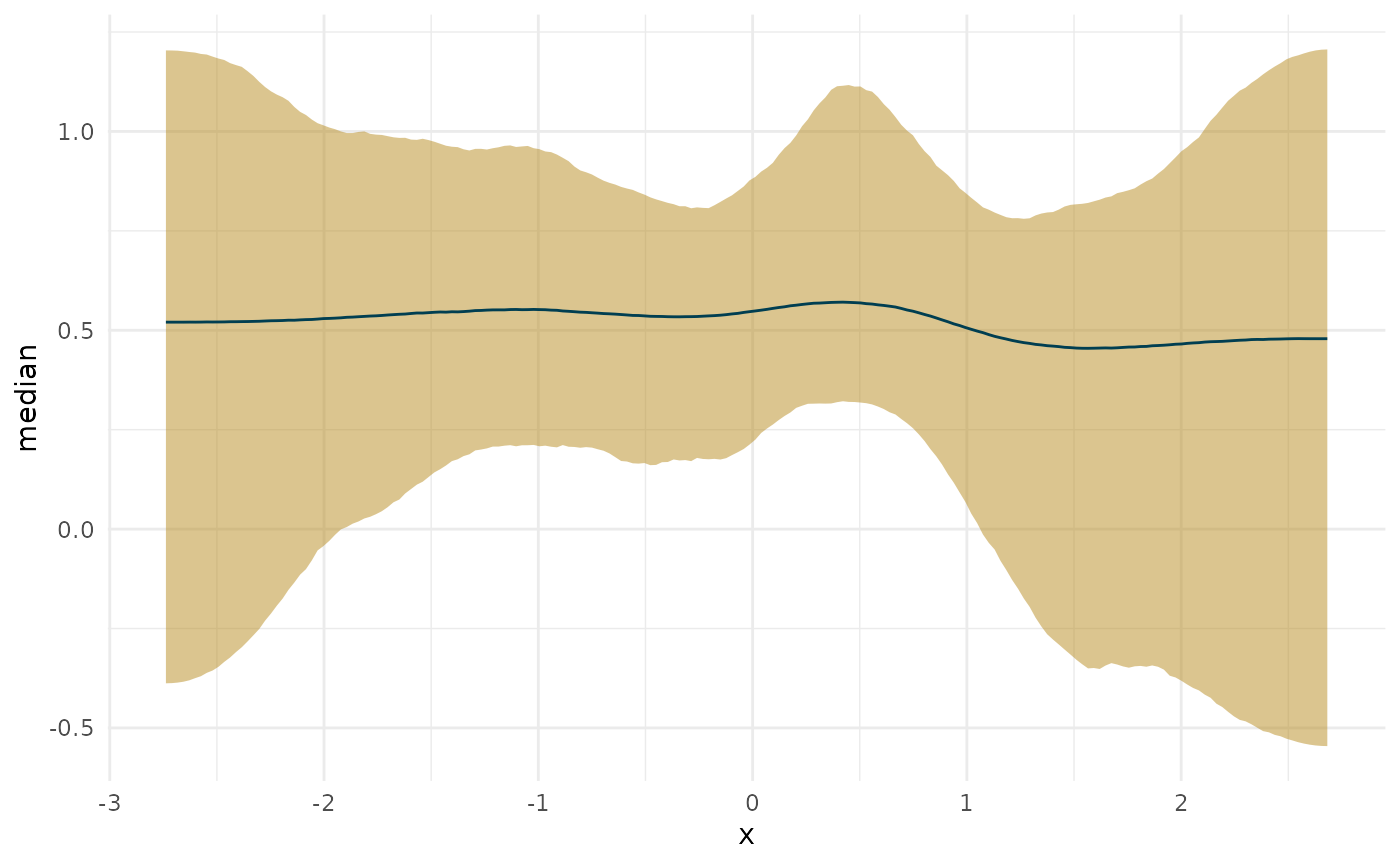
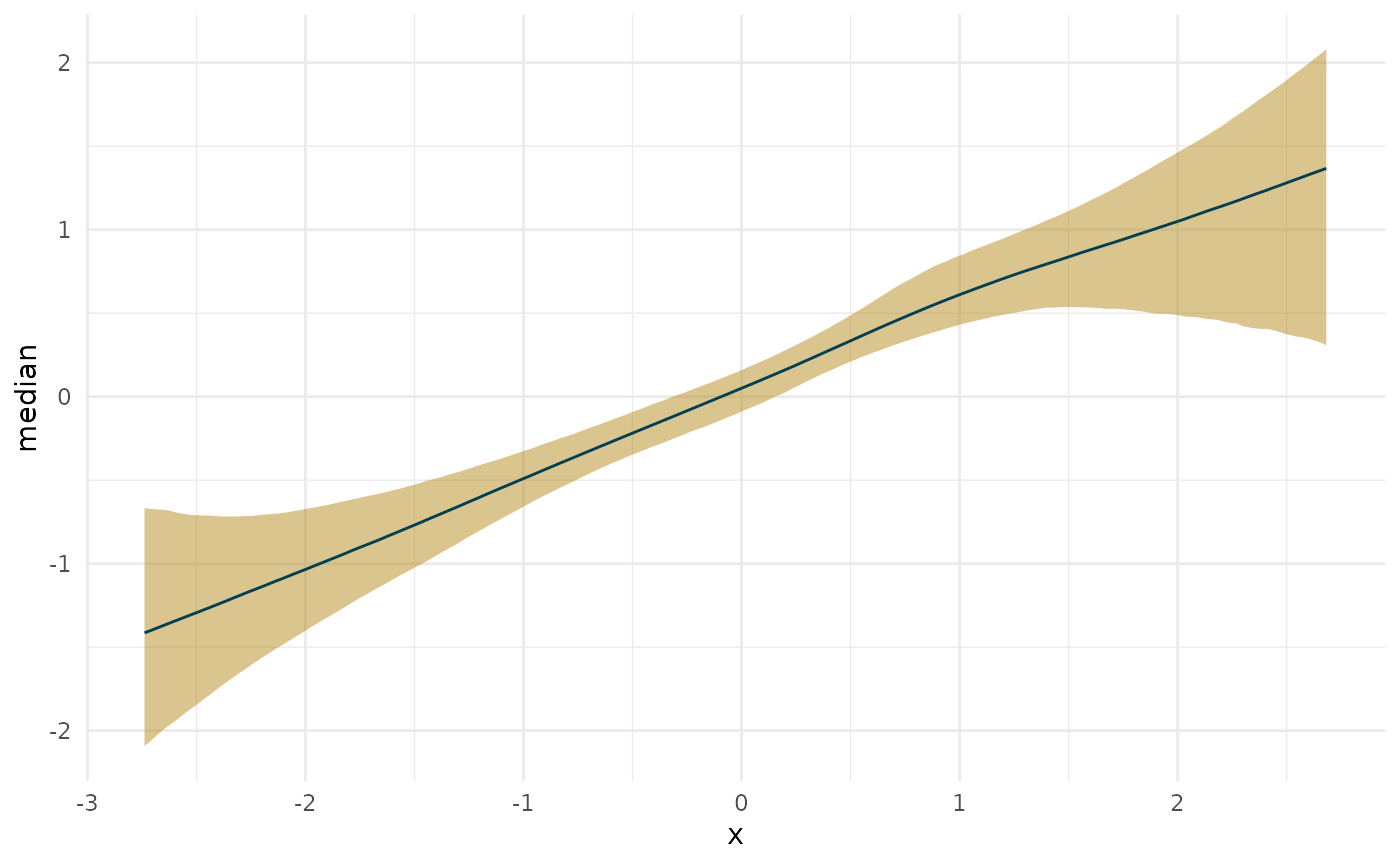
docs and bug fix

diff --git a/docs/articles/finding-plateaus.html b/docs/articles/finding-plateaus.html
@@ -158,13 +158,13 @@
 <span class="va">eps</span> <span class="op">=</span> <span class="fl">1e-07</span>
 <span class="va">res</span> <span class="op">=</span> <span class="fl">200</span>
 <span class="va">fit</span> <span class="op">&lt;-</span> <span class="fu"><a href="https://rdrr.io/pkg/mgcv/man/gam.html">gam</a></span><span class="op">(</span><span class="va">y</span><span class="op">~</span><span class="fu"><a href="https://rdrr.io/pkg/mgcv/man/s.html">s</a></span><span class="op">(</span><span class="va">x2</span><span class="op">)</span>,data<span class="op">=</span><span class="va">d</span>, method <span class="op">=</span> <span class="st">'REML'</span><span class="op">)</span>
-<span class="va">deriv_su</span> <span class="op">&lt;-</span> <span class="fu">gratia</span><span class="fu">::</span><span class="fu"><a href="https://gavinsimpson.github.io/gratia//reference/derivatives.html">derivatives</a></span><span class="op">(</span><span class="va">fit</span>, term <span class="op">=</span> <span class="st">'x2'</span>, n <span class="op">=</span> <span class="va">res</span>, eps <span class="op">=</span> <span class="va">eps</span>, level <span class="op">=</span> <span class="fl">.95</span>, 
+<span class="va">deriv_su</span> <span class="op">&lt;-</span> <span class="fu">gratia</span><span class="fu">::</span><span class="fu"><a href="https://gavinsimpson.github.io/gratia/reference/derivatives.html">derivatives</a></span><span class="op">(</span><span class="va">fit</span>, term <span class="op">=</span> <span class="st">'x2'</span>, n <span class="op">=</span> <span class="va">res</span>, eps <span class="op">=</span> <span class="va">eps</span>, level <span class="op">=</span> <span class="fl">.95</span>, 
                                 interval <span class="op">=</span> <span class="st">'simultaneous'</span>, unconditional <span class="op">=</span> <span class="cn">TRUE</span>, n_sim <span class="op">=</span> <span class="fl">10000</span><span class="op">)</span>
-<span class="va">deriv_sc</span> <span class="op">&lt;-</span> <span class="fu">gratia</span><span class="fu">::</span><span class="fu"><a href="https://gavinsimpson.github.io/gratia//reference/derivatives.html">derivatives</a></span><span class="op">(</span><span class="va">fit</span>, term <span class="op">=</span> <span class="st">'x2'</span>, n <span class="op">=</span> <span class="va">res</span>, eps <span class="op">=</span> <span class="va">eps</span>, level <span class="op">=</span> <span class="fl">.95</span>, 
+<span class="va">deriv_sc</span> <span class="op">&lt;-</span> <span class="fu">gratia</span><span class="fu">::</span><span class="fu"><a href="https://gavinsimpson.github.io/gratia/reference/derivatives.html">derivatives</a></span><span class="op">(</span><span class="va">fit</span>, term <span class="op">=</span> <span class="st">'x2'</span>, n <span class="op">=</span> <span class="va">res</span>, eps <span class="op">=</span> <span class="va">eps</span>, level <span class="op">=</span> <span class="fl">.95</span>, 
                                 interval <span class="op">=</span> <span class="st">'simultaneous'</span>, unconditional <span class="op">=</span> <span class="cn">FALSE</span>, n_sim <span class="op">=</span> <span class="fl">10000</span><span class="op">)</span>
-<span class="va">deriv_cu</span> <span class="op">&lt;-</span> <span class="fu">gratia</span><span class="fu">::</span><span class="fu"><a href="https://gavinsimpson.github.io/gratia//reference/derivatives.html">derivatives</a></span><span class="op">(</span><span class="va">fit</span>, term <span class="op">=</span> <span class="st">'x2'</span>, n <span class="op">=</span> <span class="va">res</span>, eps <span class="op">=</span> <span class="va">eps</span>, level <span class="op">=</span> <span class="fl">.95</span>, 
+<span class="va">deriv_cu</span> <span class="op">&lt;-</span> <span class="fu">gratia</span><span class="fu">::</span><span class="fu"><a href="https://gavinsimpson.github.io/gratia/reference/derivatives.html">derivatives</a></span><span class="op">(</span><span class="va">fit</span>, term <span class="op">=</span> <span class="st">'x2'</span>, n <span class="op">=</span> <span class="va">res</span>, eps <span class="op">=</span> <span class="va">eps</span>, level <span class="op">=</span> <span class="fl">.95</span>, 
                                 interval <span class="op">=</span> <span class="st">'confidence'</span>, unconditional <span class="op">=</span> <span class="cn">TRUE</span><span class="op">)</span>
-<span class="va">deriv_cc</span> <span class="op">&lt;-</span> <span class="fu">gratia</span><span class="fu">::</span><span class="fu"><a href="https://gavinsimpson.github.io/gratia//reference/derivatives.html">derivatives</a></span><span class="op">(</span><span class="va">fit</span>, term <span class="op">=</span> <span class="st">'x2'</span>, n <span class="op">=</span> <span class="va">res</span>, eps <span class="op">=</span> <span class="va">eps</span>, level <span class="op">=</span> <span class="fl">.95</span>, 
+<span class="va">deriv_cc</span> <span class="op">&lt;-</span> <span class="fu">gratia</span><span class="fu">::</span><span class="fu"><a href="https://gavinsimpson.github.io/gratia/reference/derivatives.html">derivatives</a></span><span class="op">(</span><span class="va">fit</span>, term <span class="op">=</span> <span class="st">'x2'</span>, n <span class="op">=</span> <span class="va">res</span>, eps <span class="op">=</span> <span class="va">eps</span>, level <span class="op">=</span> <span class="fl">.95</span>, 
                                 interval <span class="op">=</span> <span class="st">'confidence'</span>, unconditional <span class="op">=</span> <span class="cn">FALSE</span><span class="op">)</span></pre></div>
 <div id="sources-of-uncertainty" class="section level2">
 <h2 class="hasAnchor">
@@ -198,7 +198,7 @@
 <div class="sourceCode" id="cb7"><pre class="downlit">
 <span class="kw"><a href="https://rdrr.io/r/base/library.html">library</a></span><span class="op">(</span><span class="va"><a href="https://github.com/paul-buerkner/brms">brms</a></span><span class="op">)</span>
 <span class="co">#&gt; Loading required package: Rcpp</span>
-<span class="co">#&gt; Loading 'brms' package (version 2.14.0). Useful instructions</span>
+<span class="co">#&gt; Loading 'brms' package (version 2.15.0). Useful instructions</span>
 <span class="co">#&gt; can be found by typing help('brms'). A more detailed introduction</span>
 <span class="co">#&gt; to the package is available through vignette('brms_overview').</span>
 <span class="co">#&gt; </span>
@@ -542,9 +542,13 @@ B"</span>, guides <span class="op">=</span> <span class="st">"collect"</span><sp
 <span class="co">#&gt; 4 30   -1   FALSE 0.6873160711 0.8326659</span>
 <span class="co">#&gt; 5 33    0    TRUE 0.8376780090 0.9980641</span></pre></div>
 </div>
-<div id="differences-along-the-curve" class="section level1">
+<div id="coming-up" class="section level1">
 <h1 class="hasAnchor">
-<a href="#differences-along-the-curve" class="anchor"></a>Differences along the curve</h1>
+<a href="#coming-up" class="anchor"></a>Coming up!</h1>
+<p>Works in progress</p>
+<div id="differences-along-the-curve" class="section level2">
+<h2 class="hasAnchor">
+<a href="#differences-along-the-curve" class="anchor"></a>Differences along the curve</h2>
 <div class="sourceCode" id="cb30"><pre class="downlit">
 <span class="co">#Find differences along the curve from a particular point on that curve. For</span>
 <span class="co">#example, what's the difference in slope between where it is most credibly at</span>
@@ -555,9 +559,9 @@ B"</span>, guides <span class="op">=</span> <span class="st">"collect"</span><sp
 <span class="co">#returns a single Y value which will map to a single X value. You should also be</span>
 <span class="co">#able to pass it a curvish.param object.</span>
 <span class="va">object</span> <span class="op">=</span> <span class="va">deriv_b2</span>
-<span class="va">comparison</span> <span class="op">=</span> <span class="va">min_p</span>
+<span class="co"># comparison = min_p</span>
 <span class="va">comparison</span> <span class="op">=</span> <span class="va">max</span>
-<span class="va">comparison</span> <span class="op">=</span> <span class="fl">5</span>
+<span class="co"># comparison = 5</span>
 <span class="va">robust</span> <span class="op">=</span> <span class="cn">TRUE</span>
 <span class="va">prob</span> <span class="op">=</span> <span class="fl">.95</span>
 <span class="va">prob_outer</span> <span class="op">=</span> <span class="fl">.99</span>
@@ -605,15 +609,17 @@ B"</span>, guides <span class="op">=</span> <span class="st">"collect"</span><sp
 <span class="va">new_object</span> <span class="op">&lt;-</span> <span class="fu"><a href="https://rdrr.io/r/base/list.html">list</a></span><span class="op">(</span>deriv_posterior_summary <span class="op">=</span> <span class="va">diff_deriv_summary</span>, 
                    smooth_posterior_summary <span class="op">=</span> <span class="va">object</span><span class="op">$</span><span class="va">smooth_posterior_summary</span>,
                    deriv_posterior <span class="op">=</span> <span class="va">diff_deriv</span><span class="op">)</span>
-<span class="fu">mostattributes</span><span class="op">(</span><span class="va">new_object</span><span class="op">)</span> <span class="op">&lt;-</span> <span class="fu"><a href="https://rdrr.io/r/base/attributes.html">attributes</a></span><span class="op">(</span><span class="va">object</span><span class="op">)</span>
+<span class="fu">mostattributes</span><span class="op">(</span><span class="va">new_object</span><span class="op">)</span> <span class="op">&lt;-</span> <span class="fu"><a href="https://rdrr.io/r/base/c.html">c</a></span><span class="op">(</span><span class="fu"><a href="https://rdrr.io/r/base/list.html">list</a></span><span class="op">(</span>names <span class="op">=</span> <span class="fu"><a href="https://rdrr.io/r/base/names.html">names</a></span><span class="op">(</span><span class="va">new_object</span><span class="op">)</span><span class="op">)</span>, <span class="fu"><a href="https://rdrr.io/r/base/attributes.html">attributes</a></span><span class="op">(</span><span class="va">object</span><span class="op">)</span><span class="op">[</span><span class="op">-</span><span class="fl">1</span><span class="op">]</span><span class="op">)</span>
 <span class="fu"><a href="https://rdrr.io/r/base/attr.html">attr</a></span><span class="op">(</span><span class="va">new_object</span>, <span class="st">'class'</span><span class="op">)</span> <span class="op">&lt;-</span> <span class="fu"><a href="https://rdrr.io/r/base/c.html">c</a></span><span class="op">(</span><span class="fu"><a href="https://rdrr.io/r/base/class.html">class</a></span><span class="op">(</span><span class="va">object</span><span class="op">)</span>, <span class="st">'curvish.diff'</span><span class="op">)</span>
 <span class="fu"><a href="https://rdrr.io/r/base/attr.html">attr</a></span><span class="op">(</span><span class="va">new_object</span>, <span class="st">'comparison'</span><span class="op">)</span> <span class="op">&lt;-</span> <span class="va">comparison</span>
-<span class="fu"><a href="https://rdrr.io/r/graphics/plot.html">plot</a></span><span class="op">(</span><span class="va">new_object</span><span class="op">)</span></pre></div>
+<span class="kw"><a href="https://rdrr.io/r/base/library.html">library</a></span><span class="op">(</span><span class="va"><a href="https://patchwork.data-imaginist.com">patchwork</a></span><span class="op">)</span>
+<span class="fu"><a href="https://rdrr.io/r/graphics/plot.html">plot</a></span><span class="op">(</span><span class="va">new_object</span>, deriv <span class="op">=</span> <span class="fl">1</span><span class="op">)</span> <span class="op">+</span> 
+<span class="fu"><a href="https://rdrr.io/r/graphics/plot.html">plot</a></span><span class="op">(</span><span class="va">deriv_b2</span>, deriv <span class="op">=</span> <span class="fl">1</span><span class="op">)</span> <span class="op">+</span> <span class="fu"><a href="https://patchwork.data-imaginist.com/reference/plot_layout.html">plot_layout</a></span><span class="op">(</span>ncol <span class="op">=</span> <span class="fl">1</span><span class="op">)</span></pre></div>
 <p><img src="finding-plateaus_files/figure-html/unnamed-chunk-16-1.png" width="700"></p>
 </div>
-<div id="auc" class="section level1">
-<h1 class="hasAnchor">
-<a href="#auc" class="anchor"></a>AUC</h1>
+<div id="auc" class="section level2">
+<h2 class="hasAnchor">
+<a href="#auc" class="anchor"></a>AUC</h2>
 <p>We can find the area under the curve of the derivative as a summary of total change.</p>
 <div class="sourceCode" id="cb31"><pre class="downlit">
 <span class="va">auc_b</span> <span class="op">&lt;-</span> <span class="fu">curvish</span><span class="fu">::</span><span class="fu"><a href="../reference/auc.html">auc</a></span><span class="op">(</span><span class="va">deriv_b</span>, multimodal <span class="op">=</span> <span class="cn">FALSE</span>, prob <span class="op">=</span> <span class="fl">.95</span><span class="op">)</span>
@@ -632,9 +638,9 @@ B"</span>, guides <span class="op">=</span> <span class="st">"collect"</span><sp
 <span class="fu"><a href="https://rdrr.io/r/stats/median.html">median</a></span><span class="op">(</span><span class="va">auc_b</span><span class="op">$</span><span class="va">param_posterior</span><span class="op">)</span>
 <span class="co">#&gt; [1] 1.883251</span></pre></div>
 </div>
-<div id="coming-up" class="section level1">
-<h1 class="hasAnchor">
-<a href="#coming-up" class="anchor"></a>Coming up</h1>
+<div id="and-more" class="section level2">
+<h2 class="hasAnchor">
+<a href="#and-more" class="anchor"></a>And more</h2>
 <p>Find the posterior of differences from various points in the curve, or credible intervals for differences along arbitrary values.</p>
 <p>Also, combine objects like posteriors for max slopes and the slopes themselves to make plots of regions of the curve that have certain properties.</p>
 <div class="sourceCode" id="cb33"><pre class="downlit">
@@ -652,6 +658,31 @@ B"</span>, guides <span class="op">=</span> <span class="st">"collect"</span><sp
                                                                  <span class="cn">TRUE</span> <span class="op">~</span> <span class="st">'as_steep'</span><span class="op">)</span><span class="op">]</span>
 
 <span class="va">deriv1_post_summary</span> <span class="op">&lt;-</span> <span class="va">deriv1_post_summary</span><span class="op">[</span><span class="va">deriv1_diff_from_max_post_summary</span><span class="op">[</span>, <span class="fu">.</span><span class="op">(</span><span class="va">Age</span>, <span class="va">compared_to_max</span><span class="op">)</span><span class="op">]</span>, on <span class="op">=</span> <span class="st">'Age'</span><span class="op">]</span></pre></div>
+</div>
+<div id="second-derivative" class="section level2">
+<h2 class="hasAnchor">
+<a href="#second-derivative" class="anchor"></a>Second derivative</h2>
+<div class="sourceCode" id="cb34"><pre class="downlit">
+<span class="co">#Taking the second derivative gets noisy if eps is very small.</span>
+<span class="va">deriv_b</span> <span class="op">&lt;-</span> <span class="fu">curvish</span><span class="fu">::</span><span class="fu"><a href="../reference/derivatives.html">derivatives</a></span><span class="op">(</span><span class="va">fit_b</span>, term <span class="op">=</span> <span class="st">'x2'</span>, n <span class="op">=</span> <span class="va">res</span>, eps <span class="op">=</span> <span class="fl">1e-6</span>, order <span class="op">=</span> <span class="fl">2</span><span class="op">)</span>
+<span class="kw"><a href="https://rdrr.io/r/base/library.html">library</a></span><span class="op">(</span><span class="va"><a href="https://patchwork.data-imaginist.com">patchwork</a></span><span class="op">)</span>
+<span class="fu"><a href="https://rdrr.io/r/graphics/plot.html">plot</a></span><span class="op">(</span><span class="va">deriv_b</span>, deriv <span class="op">=</span> <span class="fl">0</span><span class="op">)</span> <span class="op">+</span> 
+<span class="fu"><a href="https://rdrr.io/r/graphics/plot.html">plot</a></span><span class="op">(</span><span class="va">deriv_b</span>, deriv <span class="op">=</span> <span class="fl">1</span><span class="op">)</span> <span class="op">+</span>
+<span class="fu"><a href="https://rdrr.io/r/graphics/plot.html">plot</a></span><span class="op">(</span><span class="va">deriv_b</span>, deriv <span class="op">=</span> <span class="fl">2</span><span class="op">)</span> <span class="op">+</span> <span class="fu"><a href="https://patchwork.data-imaginist.com/reference/plot_layout.html">plot_layout</a></span><span class="op">(</span>ncol <span class="op">=</span> <span class="fl">1</span><span class="op">)</span></pre></div>
+<p><img src="finding-plateaus_files/figure-html/unnamed-chunk-20-1.png" width="700"></p>
+<div class="sourceCode" id="cb35"><pre class="downlit">
+
+<span class="co">#How wiggly is it? In other words how much does the slope change? If the slope</span>
+<span class="co">#is constant the second derivative is 0, so any absolute deviation from that</span>
+<span class="co">#indicates some wiggle.</span>
+<span class="fu"><a href="https://rdrr.io/r/base/dim.html">dim</a></span><span class="op">(</span><span class="va">deriv_b</span><span class="op">$</span><span class="va">deriv2_posterior</span><span class="op">)</span>
+<span class="co">#&gt; [1] 10000   200</span>
+<span class="co">#apply accross time-points, rather than iterations</span>
+<span class="va">mean_deriv2_post</span> <span class="op">&lt;-</span> <span class="fu"><a href="https://rdrr.io/r/base/apply.html">apply</a></span><span class="op">(</span><span class="va">deriv_b</span><span class="op">$</span><span class="va">deriv2_posterior</span>, <span class="fl">2</span>, <span class="kw">function</span><span class="op">(</span><span class="va">x</span><span class="op">)</span> <span class="fu"><a href="https://rdrr.io/r/base/mean.html">mean</a></span><span class="op">(</span><span class="fu"><a href="https://rdrr.io/r/base/MathFun.html">abs</a></span><span class="op">(</span><span class="va">x</span><span class="op">)</span><span class="op">)</span><span class="op">)</span>
+<span class="fu">bayesplot</span><span class="fu">::</span><span class="fu"><a href="https://mc-stan.org/bayesplot/reference/MCMC-intervals.html">mcmc_areas</a></span><span class="op">(</span><span class="fu"><a href="https://rdrr.io/r/base/array.html">array</a></span><span class="op">(</span><span class="va">mean_deriv2_post</span>, dim <span class="op">=</span> <span class="fu"><a href="https://rdrr.io/r/base/c.html">c</a></span><span class="op">(</span><span class="fl">10000</span>,<span class="fl">1</span><span class="op">)</span>, dimnames <span class="op">=</span> <span class="fu"><a href="https://rdrr.io/r/base/list.html">list</a></span><span class="op">(</span><span class="cn">NULL</span>, <span class="st">'mean second deriv'</span><span class="op">)</span><span class="op">)</span>, point_est <span class="op">=</span> <span class="st">'median'</span>,
+                      prob <span class="op">=</span> <span class="fl">.95</span>, prob_outer <span class="op">=</span> <span class="fl">.99</span><span class="op">)</span></pre></div>
+<p><img src="finding-plateaus_files/figure-html/unnamed-chunk-20-2.png" width="700"></p>
+</div>
 </div>
   </div>
 

diff --git a/docs/reference/derivatives.html b/docs/reference/derivatives.html
@@ -128,9 +128,10 @@
   <span class='va'>object</span>,
   <span class='va'>term</span>,
   n <span class='op'>=</span> <span class='fl'>200</span>,
-  eps <span class='op'>=</span> <span class='fl'>1e-07</span>,
+  eps <span class='op'>=</span> <span class='fl'>1e-05</span>,
   prob <span class='op'>=</span> <span class='fl'>0.95</span>,
   prob_outer <span class='op'>=</span> <span class='fl'>0.99</span>,
+  order <span class='op'>=</span> <span class='fl'>1</span>,
   deriv_posterior <span class='op'>=</span> <span class='cn'>TRUE</span>
 <span class='op'>)</span></pre>
 
@@ -162,14 +163,21 @@
       <td><p>numeric; the outer density of the posterior summary.</p></td>
     </tr>
     <tr>
+      <th>order</th>
+      <td><p>integer; the order of the derivative. Only first (<code>1</code>) and
+second (<code>2</code>) are supported.</p></td>
+    </tr>
+    <tr>
       <th>deriv_posterior</th>
-      <td><p>return the posterior samples for the derivative as part of the object?</p></td>
+      <td><p>return the posterior samples for the derivative as
+part of the object?</p></td>
     </tr>
     </table>
 
     <h2 class="hasAnchor" id="value"><a class="anchor" href="#value"></a>Value</h2>
 
-    <p>a <code>curvish</code> object containing summaries of the posterior derivative, posterior smooths.</p>
+    <p>a <code>curvish</code> object containing summaries of the posterior
+  derivative, posterior smooths.</p>
 
   </div>
   <div class="col-md-3 hidden-xs hidden-sm" id="pkgdown-sidebar">

diff --git a/docs/reference/plot.curvish.curve.html b/docs/reference/plot.curvish.curve.html
@@ -125,7 +125,7 @@
     </div>
 
     <pre class="usage"><span class='co'># S3 method for curvish.curve</span>
-<span class='fu'><a href='https://rdrr.io/r/graphics/plot.html'>plot</a></span><span class='op'>(</span><span class='va'>x</span>, robust <span class='op'>=</span> <span class='cn'>FALSE</span>, deriv <span class='op'>=</span> <span class='cn'>TRUE</span>, outer <span class='op'>=</span> <span class='cn'>FALSE</span><span class='op'>)</span></pre>
+<span class='fu'><a href='https://rdrr.io/r/graphics/plot.html'>plot</a></span><span class='op'>(</span><span class='va'>x</span>, robust <span class='op'>=</span> <span class='cn'>FALSE</span>, deriv <span class='op'>=</span> <span class='fl'>0</span>, outer <span class='op'>=</span> <span class='cn'>FALSE</span><span class='op'>)</span></pre>
 
     <h2 class="hasAnchor" id="arguments"><a class="anchor" href="#arguments"></a>Arguments</h2>
     <table class="ref-arguments">
@@ -140,7 +140,7 @@
     </tr>
     <tr>
       <th>deriv</th>
-      <td><p>Plot the derivative instead of the original curve?</p></td>
+      <td><p>Order of derivative to plot, if any (default 0 plots the smooth).</p></td>
     </tr>
     <tr>
       <th>outer</th>
